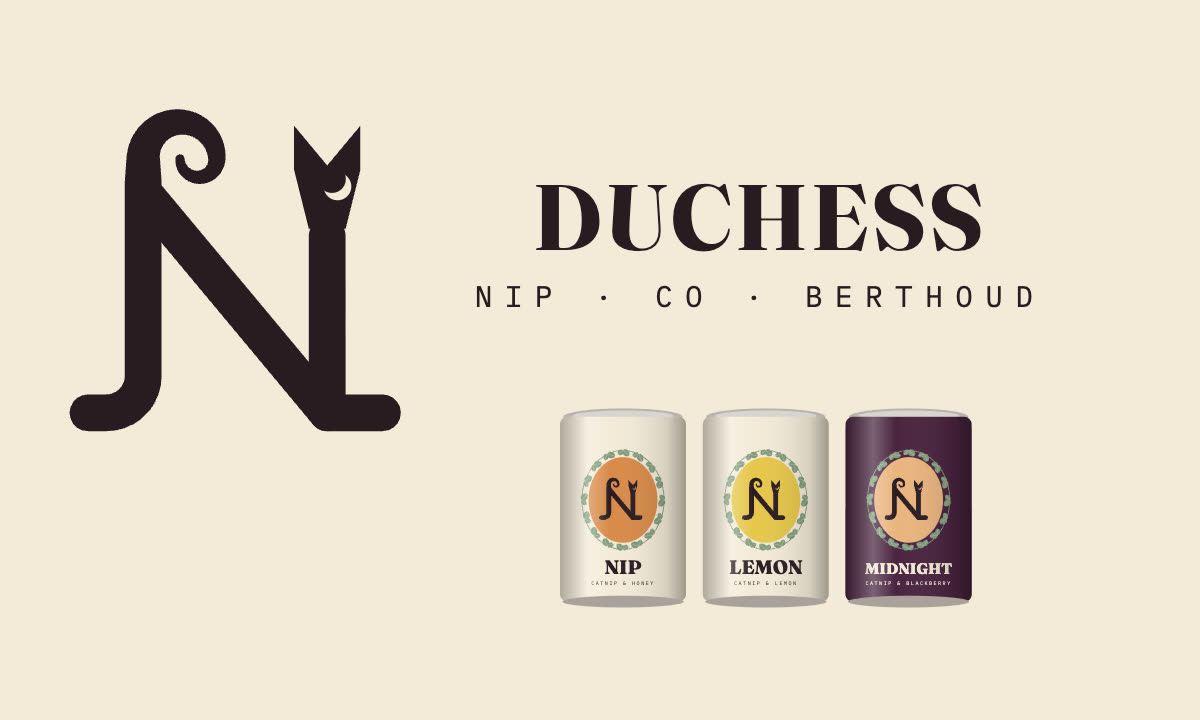
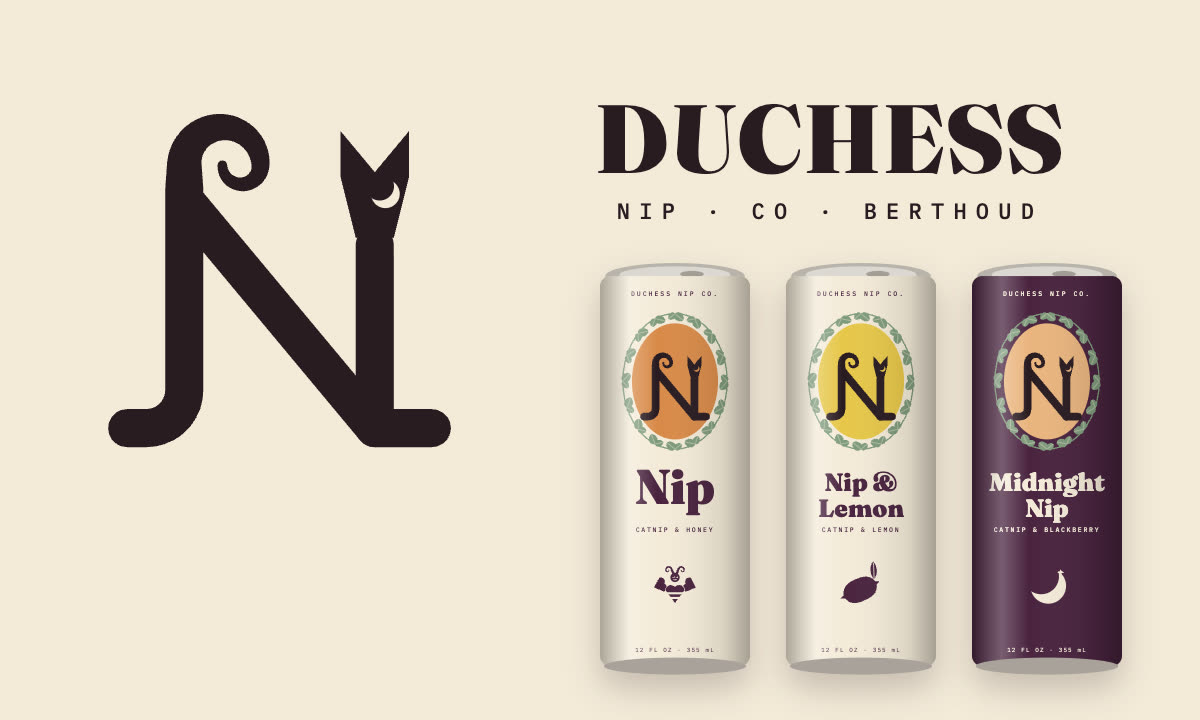
Case study and Brand page: the new slim cans (front and back), the brand sheet with them; Open it stays inline

Changed region(s): [[0.4317, 0.1222, 0.9558, 0.9778], [0.0617, 0.1528, 0.4008, 0.6417], [0.4008, 0.3972, 0.4625, 0.4278]]

diff --git a/preview/work/duchess-nip-co/index.html b/preview/work/duchess-nip-co/index.html
@@ -344,7 +344,7 @@ html[data-theme="glass"] .slot{border:1px solid rgba(255,255,255,.25)}
 .cs-cans img{border-radius:0}
 .cs-cans .cap{color:#2A1B22;padding:0 4px 2px}.cs-posts img,.cs-cans img{height:auto}.cs-posts figure .cap{font-size:13px}
 .cs-posts{display:grid;grid-template-columns:repeat(3,minmax(0,1fr));gap:var(--s2,16px);margin-bottom:var(--s3,24px)}
-.cs-site{max-width:760px}.cs-site a{display:block}
+.cs-site{max-width:760px}.cs-site>a{display:block}
 .cs-site img{height:auto;aspect-ratio:1.6/1;object-fit:cover;object-position:top}
 .cs .cap{margin-top:8px}
 html[data-theme="brutal"] .cs-flag,html[data-theme="brutal"] .cs-stat{border:3px solid #000;border-radius:0;box-shadow:5px 5px 0 #000;background:#fff;color:#000;--fg:#000}
@@ -476,7 +476,7 @@ addEventListener('storage',function(e){if(e.key===K)apply();});apply();if(D.on||
 
   <!-- 5 Applications -->
   <section aria-labelledby="h-ex"><div class="sec-h"><div><p class="kick2">Applications</p><h2 id="h-ex"><span class="t">Where it</span> <b>shows up</b></h2></div><p>Cans, a launch around town, and a shop with a cat-proof order button.</p></div>
-    <figure class="cs-cans"><img src="cans.jpg" alt="Three cans: Nip (catnip and honey), Nip &amp; Lemon, and Midnight (catnip and blackberry), each with the catnip-leaf cartouche around the mark." width="1100" height="660" loading="lazy"><figcaption class="cap">Three flavors, one label: the only ornate band on the can is the catnip-leaf border.</figcaption></figure>
+    <figure class="cs-cans"><img src="cans.jpg" alt="Three slim cans, front and back: Nip (catnip and honey), Nip &amp; Lemon and Midnight Nip (catnip and blackberry). Each front has the mark in the catnip-leaf border and the flavor symbol; each back has the cat badge, the slogan and the ingredients." width="1600" height="760" loading="lazy"><figcaption class="cap">Three flavors, front and back. The only ornate band on each can is the catnip-leaf border; the back is one even column of plain facts.</figcaption></figure>
     <div class="cs-posts">
       <figure><img src="post-1.jpg" alt="Launch post: Berthoud’s first catnip soda." width="720" height="900" loading="lazy"><figcaption class="cap">The launch</figcaption></figure>
       <figure><img src="post-2.jpg" alt="Six-pack post: She checks every can, with the Midnight can." width="720" height="900" loading="lazy"><figcaption class="cap">The six-pack</figcaption></figure>
